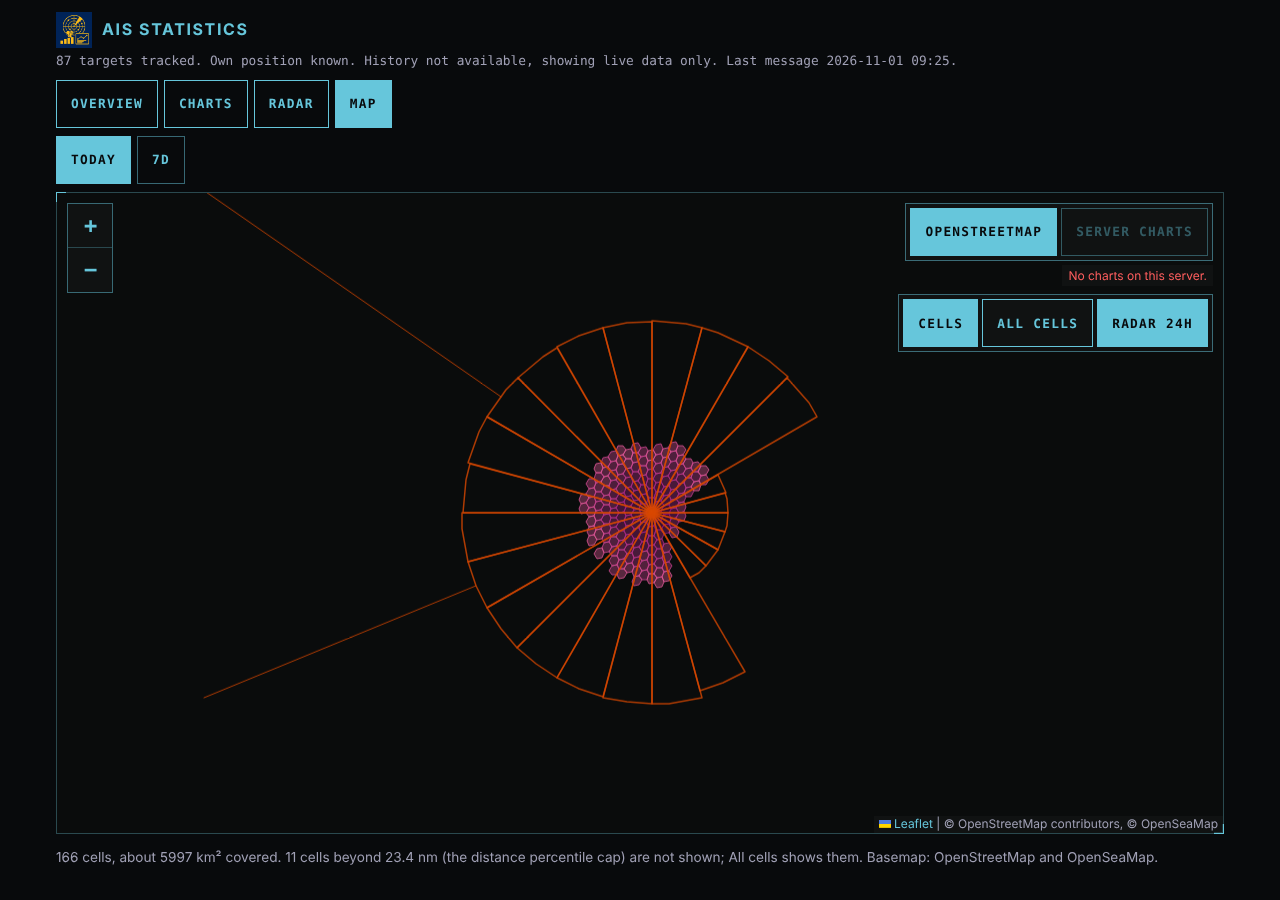
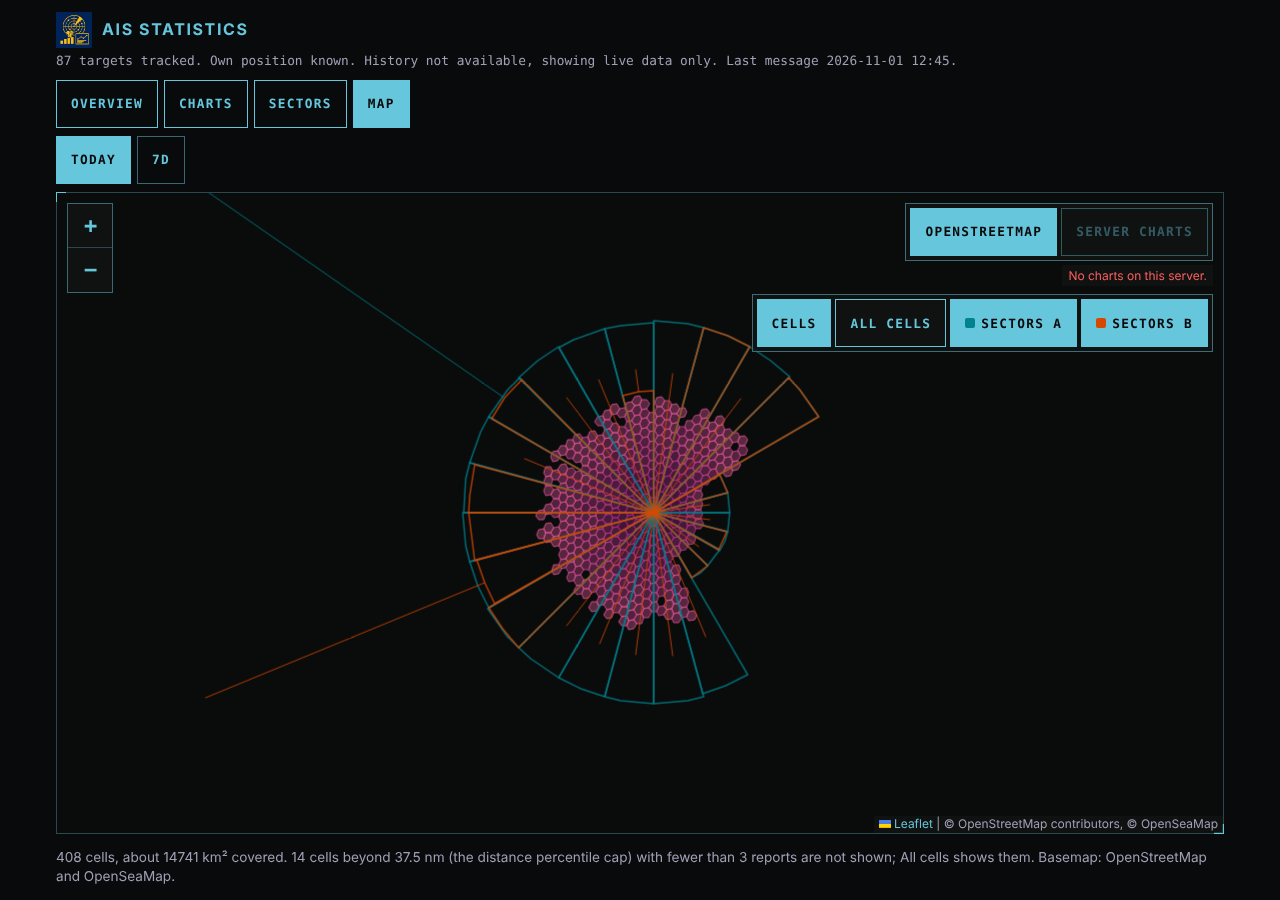
Document the sectors rename and refresh the screenshots
SPEC 6.1, 6.3, 7 and 12, ARCHITECTURE, README, the roadmap and the
changelog now call the bearing view sectors and describe the per-class
map and overlay. The screenshots are retaken from the synthetic timeline,
with the bearing page saved as sectors.png.

diff --git a/SPEC.md b/SPEC.md
@@ -137,13 +137,13 @@ positions, and the count of unique vessels per hour and per type group.
 For each of 24 sectors and for each class: number of position reports and
 the p99 distance, per hour bucket, from a coarse per-sector histogram (the
 distance bins merged in pairs, 16 bins). The
-radar shows, per sector, the highest hourly p99 in the window (a
+sectors view shows, per sector, the highest hourly p99 in the window (a
 conservative figure, since percentiles do not merge exactly from hourly
 values), counting only hours with at least 20 reports in that sector. The
 sector's report count still includes every hour.
 
 Each hour bucket also keeps the farthest reception per sector and class and
-when it arrived. The radar draws it as a thin tick beyond the sector's
+when it arrived. The sectors view draws it as a thin tick beyond the sector's
 wedge (from the centre when the sector has no radius), so rare far
 receptions such as sporadic E or tropospheric ducting stay visible without
 moving the radius. The maximum is untrusted like every maximum (2.3).
@@ -237,10 +237,10 @@ including when it is embedded in another page such as an infodisplay panel.
 |---|---|
 | `GET /summary?window=24h` | headline figures: messages, positions, vessels by group, distance avg, p95, p99 and max |
 | `GET /series?metric=&resolution=&from=&to=` | time series for the charts, read from history; `metric` is `messages`, `positions`, `distance` or `vessels`, `resolution` in seconds (at least 60, at most 2000 points) |
-| `GET /radar?window=24h&class=a\|b\|all` | 24 sectors with count and p99 distance (the highest hourly p99 in the window, see 2.6), and the farthest reception `maxM` with its time: `maxAt` when known exactly, otherwise `maxHour`, the start of the hour it fell in |
+| `GET /sectors?window=24h&class=a\|b\|all` | 24 sectors with count and p99 distance (the highest hourly p99 in the window, see 2.6), and the farthest reception `maxM` with its time: `maxAt` when known exactly, otherwise `maxHour`, the start of the hour it fell in. `GET /radar`, the route's earlier name, answers the same |
 | `GET /coverage?window=7d&all=false` | cell ids, GeoJSON for the map, covered area in m²; windows `24h` (today) and `7d`; `all=true` adds the cells beyond the distance cap, marked `capped` |
 | `GET /longrange?window=24h` | the 25 farthest entries of the long-range log (2.7) in the window, farthest first; windows `24h` and `7d` |
-| `GET /overlay/coverage.geojson` | the plotter overlay's GeoJSON: the 7 day footprint and the 24 hour radar wedges |
+| `GET /overlay/coverage.geojson` | the plotter overlay's GeoJSON: the 7 day footprint and the 24 hour sector wedges of class A and B |
 | `GET /status` | live state: tracked targets, own position age, history reachable or not |
 
 Windows accept `1h`, `24h` and `7d`. Responses are JSON in SI units
@@ -258,9 +258,9 @@ persistence contract (section 8). All published values are numeric, so any
 History API provider can store and return them. Every counter is published
 at each publish interval (`publishIntervalMinutes`, default 5), whether or
 not it changed, except the per-sector counters, p99 and maximum distances,
-which are published once an hour and on stop: the radar keeps the highest
+which are published once an hour and on stop: the sectors keep the highest
 hourly p99 and the maximum per sector, so finer updates add nothing. History therefore holds the
-radar's closed hours, and the open hour comes from the live state. A gauge with no data (for example
+sectors' closed hours, and the open hour comes from the live state. A gauge with no data (for example
 no position with a known own position in the last hour) is left out of the
 delta rather than published as zero or null; the web app's distance series
 come from the bin counters, not from these gauges.
@@ -329,20 +329,23 @@ button:
   `/plugins/signalk-ais-statistics/overlay/coverage.geojson`, which the
   plotter fetches with the user's credentials: H3 cell polygons for the last
   7 days (`kind: "cell"`, with `id`, a coverage `intensity` from 0 to 1 and
-  the report count), plus the 24 hour sector radar as wedges from the last
-  known own position (`kind: "radar"`), and a line per sector along its
-  centre bearing from the wedge out to the farthest reception
-  (`kind: "radar-max"`, with `maxM` and its time). A fill layer colours
+  the report count), plus the 24 hour sectors of class A and B as wedges
+  from the last known own position (`kind: "sector"`), and a line per
+  sector along its centre bearing from the wedge out to the farthest
+  reception (`kind: "sector-max"`, with `maxM` and its time). Each sector
+  feature carries its class in `cls` (`a` or `b`). A fill layer colours
   cells by `intensity` on a magenta to purple ramp, which contrasts with
   chart water and land, a line layer outlines each cell in the same ramp,
-  another line layer outlines the radar, and a thin one draws the maxima.
+  another line layer outlines the sectors, teal for class A and orange for
+  class B as on the web app's sectors page, and a thin one draws the
+  maxima in the same class colours.
 - Live updates need a context that calls `overlay.refresh`, so the manifest
   also declares an optional `background.iframe` page,
   `/signalk-ais-statistics/plotterext/refresh.html` (part of the web app
   bundle), that does so hourly. Without it the overlay still shows, and
   refreshes when the plotter reloads it.
 - On the test server the GeoJSON for a few hours of traffic was about 8 KB
-  (12 cells, 15 radar wedges), and all overlay routes answered without
+  (12 cells, 15 sector wedges), and all overlay routes answered without
   authentication on a server that allows read-only access.
 - The overlay is a plotter feature, so it works wherever the plotter
   supports Plotter Extensions; other plotters (for example OpenCPN) are not
@@ -355,16 +358,17 @@ A SignalK web app, listed in the admin UI, with:
 - Overview: type group counts, class A/B split, rates, distance p95 and p99.
 - Charts: positions and messages per hour split by class, distance avg,
   p95 and p99 per hour (max shown separately and marked untrusted).
-- Radar: the 24-sector bearing view for class A and B, with a thin tick
+- Sectors: the 24-sector bearing view for class A and B (`#/sectors`; the
+  older `#/radar` link opens it too), with a thin tick
   per sector out to its farthest reception (hover shows distance and time;
   a tick beyond the scale stops at the rim and is dashed), and below it a
   table of the farthest receptions from the long-range log (2.7): time,
   distance, bearing, class, vessel name and MMSI, its position and the own
   position.
-- Map: the coverage footprint with a window selector (day, 7 days), the 24 hour radar wedges and maxima from the plotter overlay, on-screen
+- Map: the coverage footprint with a window selector (day, 7 days), the 24 hour sector wedges and maxima of class A and B from the plotter overlay, in the class colours of the sectors view, on-screen
   toggles that show or hide the cells, the sparse cells beyond the distance cap
-  (`All cells`, off by default, drawn dashed) and the radar (remembered
-  per browser), and an on-screen basemap switch between OpenStreetMap with
+  (`All cells`, off by default, drawn dashed) and the class A and B
+  sectors (`Sectors A`, `Sectors B`, remembered per browser), and an on-screen basemap switch between OpenStreetMap with
   OpenSeaMap overlay, and the SignalK server's chart provider. Default:
   OSM/OpenSeaMap when the internet is available and the connection is not
   metered, read from `network.internet.state` (`online`, `offline` or
@@ -406,7 +410,7 @@ provider (QuestDB, InfluxDB or any other) and never talks to a database
 directly. Consequences:
 
 - Anything the web app must show over time has to be published as a numeric
-  path (6.2); that is why the radar and histogram bins are published.
+  path (6.2); that is why the sector and histogram bins are published.
 - If no history provider is registered, or it does not answer, the plugin
   runs in live-only mode: deltas are still published, the web app shows the
   current window it holds in memory, and `/status` says history is
@@ -459,10 +463,10 @@ directly. Consequences:
 - Rates and vessel counts per minute and hour.
 - Distance statistics (avg, median, p95, p99, max) over all positions, with
   no filtering.
-- 24 sector radar per class, from per-sector p99.
+- 24 bearing sectors per class, from per-sector p99.
 - Coverage cells and area per day.
 - SignalK path publication (6.2).
-- Web app with overview, charts, radar and map (7).
+- Web app with overview, charts, sectors and map (7).
 - Overlay resource set for chart plotters (6.3).
 
 ### 10.2 Post-MVP / Deferred
@@ -523,7 +527,7 @@ help of `max` (6.2). Verified across a plugin restart on the test server.
 - **Read-only users may use the web app (chosen by the maintainer).** Needs
   explicit route permissions, since SignalK defaults plugin routes to
   admin-only.
-- **Radar keeps the highest hourly p99 per sector, from hours with at
+- **Sectors keep the highest hourly p99 per sector, from hours with at
   least 20 reports in the sector (chosen by the maintainer).** In a
   sector-hour with few reports, p99 lands at the top of its distance bin,
   so sparse hours set the radius by chance and every window showed the
@@ -533,8 +537,8 @@ help of `max` (6.2). Verified across a plugin restart on the test server.
   count but no radius.
 - **Far receptions as a tick and a log, not in the radius (chosen by the
   maintainer).** The 20 report minimum keeps rare far receptions out of
-  the radius, but they can be real propagation worth seeing. The radar
-  draws the sector maximum as a thin tick with its time on hover, and the
+  the radius, but they can be real propagation worth seeing. The sectors
+  view draws the sector maximum as a thin tick with its time on hover, and the
   long-range log keeps who sent each far position and where both stations
   were, which history cannot store. Cost: 48 more hourly paths and a small
   daily file. Rejected: publishing the time of the maximum as a path (an
@@ -577,6 +581,13 @@ help of `max` (6.2). Verified across a plugin restart on the test server.
   the sentence decoder writes them, so a coast station (`00MIDxxxx`) keys
   the same from either input.
 
+- **The bearing view is called "sectors", not "radar" (chosen by the
+  maintainer).** "Radar" invited confusion with a real radar overlay on
+  the plotter. The view, its route, the overlay layers and feature kinds
+  use "sectors"; `GET /radar` and `#/radar` stay as aliases so older links
+  keep working. On the map and in the plotter the sectors are drawn per
+  class, in the same colours as the sectors view.
+
 ## 13. Open Questions
 
 Checked on 2026-10-30 against a test server (SignalK server 2.35.1) with
@@ -587,4 +598,5 @@ unverified.
 1. **Overlay smoothness in Freeboard-SK.** The overlay is served and
    small, but nobody has yet looked at it in the plotter, and how large a
    GeoJSON source it handles smoothly (hundreds of cells over 7 days) is
-   untested.
+   untested. Whether the class A teal and class B orange sector outlines
+   read well on chart water and land there is also unchecked.

diff --git a/ARCHITECTURE.md b/ARCHITECTURE.md
@@ -22,7 +22,7 @@ plugin's data directory.
  │                                                        Live state                       │
  │                                                              │                          │
  ├─ /plugins/signalk-ais-statistics/* ◄── REST API ◄── Query layer ◄── HistoryReader ◄─────┘
- ├─ public/ web app (graphs, radar, map) ──────────────► REST API
+ ├─ public/ web app (graphs, sectors, map) ────────────► REST API
  └─ resources API (plotterExtensions) ◄── Overlay provider ◄── Coverage
 ```
 
@@ -61,7 +61,7 @@ is filtered (SPEC 2.3). Coverage applies its own percentile cap (see 2.5 below).
 ### 2.4 Aggregator
 Keeps the cumulative counters since start, the minute buckets of the last
 hour (rolling gauges), the hour buckets of the last 24 hours (live-only
-windows and the radar), and a vessel registry of MMSI to last seen, ship
+windows and the sectors), and a vessel registry of MMSI to last seen, ship
 type and name (pruned after 24 hours, capped at 50000) that answers unique counts
 for any window up to 24 hours. For each decoded message it updates counts,
 the fixed log-spaced distance histogram of `histogram.ts` (average, median,
@@ -77,7 +77,7 @@ to the 50 farthest (SPEC 2.7), fills in names the registry learns later
 that day, and writes `longrange-YYYY-MM-DD.json` beside the coverage files
 hourly, at the day change and on stop. Writes are queued so two never
 share a temporary file. Earlier days are read on first use and pruned with
-`coverageRetentionDays`. It also gives the radar exact times for the
+`coverageRetentionDays`. It also gives the sectors exact times for the
 sector maxima read from history.
 
 ### 2.5 Coverage
@@ -121,7 +121,7 @@ buckets by window, never finer than the publish interval), with reset detection:
 predecessor starts a new segment counted from zero, and the bucket's `max`
 adds what was counted before a restart inside that bucket (a `max` above
 the bucket's `last` also marks one). Series start on a whole multiple of
-their resolution, so hourly bars begin on the hour. The radar reads the
+their resolution, so hourly bars begin on the hour. The sectors query reads the
 closed hours from history and adds the open hour from the live bucket,
 because the sector paths are published hourly. Only hours with at least
 20 reports in a sector count toward its p99 (`MIN_SECTOR_REPORTS`). The
@@ -148,7 +148,8 @@ Registers a read-only `plotterExtensions` resource provider through
 plugin runs (the pattern `@meri-imperiumi/signalk-internet` uses). The
 MapLibre style is inline in the manifest; its GeoJSON source is the
 read-only route `/overlay/coverage.geojson`, built on request from Coverage
-and the radar (wedges and `radar-max` lines). A static background page in the web app bundle calls
+and the class A and B sectors (`sector` wedges and `sector-max` lines,
+each with its class in `cls`). A static background page in the web app bundle calls
 `overlay.refresh` hourly through the plotter extension bus (SPEC 6.3).
 Nothing is written into the package directory at run time.
 
@@ -164,11 +165,12 @@ provider); its default follows the internet-status plugin's online and
 metered state when present, and a manual choice is remembered in
 `localStorage`. Toggles show or hide the coverage cells, the cells beyond
 the distance cap (fetched with `all=true`, drawn dashed, off by default)
-and the radar (`layers.ts`, also remembered in `localStorage`). The radar
-view draws the sector maxima as ticks with a wide invisible hover line,
+and the class A and B sectors (`layers.ts`, also remembered in
+`localStorage`; a saved choice for the older single radar toggle carries
+over to both). The sectors view draws the sector maxima as ticks with a wide invisible hover line,
 leaves a quarter more room on the scale for them, and lists `/longrange`
-in a table. The radar wedges
-come from the overlay GeoJSON route, and the cell and radar colours are
+in a table. The map's sector wedges
+come from the overlay GeoJSON route, and the cell and sector colours are
 imported from `src/style.ts`, which the plotter overlay uses too, so the
 app map and the plotter look the same.
 
@@ -257,8 +259,8 @@ src/
   history.ts          HistoryReader interface and History API implementation
   query.ts            windowed queries
   api.ts              REST routes
-  overlay.ts          plotterExtensions provider, manifest and radar wedges
-  style.ts            coverage and radar colours shared by overlay and web app
+  overlay.ts          plotterExtensions provider, manifest and sector wedges
+  style.ts            coverage and sector colours shared by overlay and web app
   geo.ts              haversine, bearing, sector
   types/              typings for untyped dependencies
 web/src/              web app source, built into public/ by web/build.mjs

diff --git a/README.md b/README.md
@@ -12,9 +12,9 @@ server; the open points are in SPEC section 13.
 - Count vessels (by type group and class A/B), positions and messages per
   minute and hour.
 - Report how far your receiver reaches: average, median, p95, p99 and max
-  distance, plus a 24-sector bearing radar per class. Percentiles keep the
+  distance, plus 24 bearing sectors per class. Percentiles keep the
   numbers meaningful when a bad position arrives.
-- Keep the far ones visible: a thin tick per radar sector reaches out to
+- Keep the far ones visible: a thin tick per sector reaches out to
   its farthest reception, and a daily log lists the farthest receptions
   with time, vessel name and MMSI, and both positions, so a ducting or
   sporadic E event can be told from a wrong position.
@@ -24,7 +24,7 @@ server; the open points are in SPEC section 13.
   every 5 minutes by default, so any history provider (QuestDB, InfluxDB,
   ...) records it. Windows reach back up to 7 days, so about 14 days of
   history retention for these paths is plenty.
-- Show graphs, a radar and a coverage map in a SignalK web app that works on
+- Show graphs, the bearing sectors and a coverage map in a SignalK web app that works on
   a phone and offline.
 - Offer the coverage footprint as an overlay layer for chart plotters that
   support Plotter Extensions, such as Freeboard-SK 3.4.0 or later.

diff --git a/CHANGELOG.md b/CHANGELOG.md
@@ -6,6 +6,18 @@ uses [Semantic Versioning](https://semver.org/).
 
 ## [Unreleased]
 
+### Changed
+
+- The bearing view is called "Sectors" instead of "Radar", so it is not
+  mistaken for a radar overlay. The page is `#/sectors` and the REST route
+  `GET /sectors`; the old `#/radar` and `GET /radar` keep working.
+- The map and the plotter overlay draw the 24 hour sectors per class,
+  teal for class A and orange for class B as on the sectors page. The map
+  has a toggle for each class ("Sectors A", "Sectors B"); a saved choice
+  for the old "Radar 24h" toggle carries over to both. The overlay's
+  sector features are now `kind: "sector"` and `"sector-max"` with the
+  class in `cls`.
+
 ## [0.4.0] - 2026-11-01
 
 ### Added

diff --git a/docs/plans/mvp-roadmap.md b/docs/plans/mvp-roadmap.md
@@ -127,8 +127,8 @@ remains.
 All seven issues land before 1.0.0, with 0.x releases on the way. The
 maintainer's answers to each issue's open questions are in its
 "Decisions" comment; each plan lists what is still open. The plans
-already use "sectors" for the bearing view the code still calls "radar",
-following the maintainer's rename.
+use "sectors" for the bearing view, following the maintainer's rename of
+"radar" to "sectors" in the code and web app (SPEC 12).
 
 - [ ] Propagation alerts (#13, [plan](issue-13-propagation-alerts.md))
 - [ ] Antenna and receiver comparison (#14, [plan](issue-14-source-comparison.md))

diff --git a/CLAUDE.md b/CLAUDE.md
@@ -6,7 +6,7 @@ start with [README.md](README.md).
 ## What this is
 
 A SignalK server plugin (TypeScript) that computes AIS reception statistics
-on the vessel: counts, distance percentiles, a bearing radar and coverage.
+on the vessel: counts, distance percentiles, bearing sectors and coverage.
 It publishes numeric paths under `sensors.ais.statistics.*`, reads history
 back through the SignalK History API, serves a web app, and offers the
 coverage footprint as a Freeboard-SK plotter overlay.

diff --git a/docs/plans/plan-template.md b/docs/plans/plan-template.md
@@ -1,6 +1,6 @@
 # Implementation Plan: <issue # / short title>
 
-Name the file after the issue, for example `issue-12-sector-radar.md`. Keep
+Name the file after the issue, for example `issue-12-sector-ticks.md`. Keep
 it short: this is a working plan, not a spec. If it needs to restate
 requirements at length, those belong in [SPEC.md](../../SPEC.md) and this
 plan should link there.
